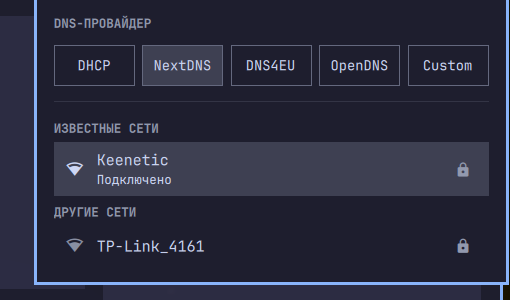
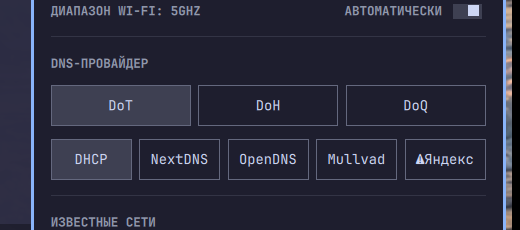
EAP выпилен (PEAP без CA — MitM, ревью #9486), обе версии

diff --git a/plugins/wifi-dns-ru/Panel.qml b/plugins/wifi-dns-ru/Panel.qml
@@ -842,25 +842,9 @@ Panel {
     runNetworkAction("connect", networkForSsid(ssid), function(network) { network.connectWithPsk(passphrase) })
   }
 
-  function connectEnterprise(ssid, identity, passphrase) {
-    runNetworkAction("connect", networkForSsid(ssid), function(network) {
-      enterpriseConnect.secret = passphrase
-      enterpriseConnect.command = ["bash", "-c", Model.enterpriseConnectScript, "nmcli-eap", ssid, identity]
-      enterpriseConnect.running = true
-    })
-  }
-
-  // Creates and activates the 802.1X profile (see Model.enterpriseConnectScript).
-  // The password goes over stdin, never argv.
-  Process {
-    id: enterpriseConnect
-    property string secret: ""
-    stdinEnabled: true
-    onStarted: {
-      write(secret + "\n")
-      secret = ""
-    }
-  }
+  // ПРИМЕЧАНИЕ: поддержка enterprise (EAP) удалена (см. submitCredentials):
+  // унаследованный путь PEAP/MSCHAPv2 пропускает проверку CA.
+  // Корпоративные сети — через системные настройки.
 
   function disconnect(network) {
     runNetworkAction("disconnect", network || connectedWifiNetwork, function(net) { net.disconnect() })
@@ -1820,7 +1804,13 @@ Panel {
     function submitCredentials() {
       if (!net || root.busy || root.passwordText.length === 0) return
       if (!isEnterprise) return root.connectWithPassphrase(net.ssid, root.passwordText)
-      if (root.identityText.length > 0) root.connectEnterprise(net.ssid, root.identityText, root.passwordText)
+      // Корпоративный EAP отключён в этом форке: унаследованный путь создаёт
+      // профиль PEAP/MSCHAPv2 без проверки CA — чуждая точка с тем же SSID
+      // может перехватить ответ (ревью маркета по #9486). Для корпоративных
+      // сетей используйте системные настройки.
+      root.failureSsid = net.ssid
+      root.failureReason = "Корпоративному Wi-Fi нужна проверка CA — здесь не поддерживается, используйте системные настройки"
+      root.passwordSsid = ""
     }
 
     Connections {

diff --git a/plugins/wifi-dns/Panel.qml b/plugins/wifi-dns/Panel.qml
@@ -850,25 +850,9 @@ Panel {
     runNetworkAction("connect", networkForSsid(ssid), function(network) { network.connectWithPsk(passphrase) })
   }
 
-  function connectEnterprise(ssid, identity, passphrase) {
-    runNetworkAction("connect", networkForSsid(ssid), function(network) {
-      enterpriseConnect.secret = passphrase
-      enterpriseConnect.command = ["bash", "-c", Model.enterpriseConnectScript, "nmcli-eap", ssid, identity]
-      enterpriseConnect.running = true
-    })
-  }
-
-  // Creates and activates the 802.1X profile (see Model.enterpriseConnectScript).
-  // The password goes over stdin, never argv.
-  Process {
-    id: enterpriseConnect
-    property string secret: ""
-    stdinEnabled: true
-    onStarted: {
-      write(secret + "\n")
-      secret = ""
-    }
-  }
+  // NOTE: enterprise (EAP) support was removed here (see submitCredentials):
+  // the inherited PEAP/MSCHAPv2 profile path skips CA validation.
+  // Use system settings for enterprise networks.
 
   function disconnect(network) {
     runNetworkAction("disconnect", network || connectedWifiNetwork, function(net) { net.disconnect() })
@@ -1829,7 +1813,13 @@ Panel {
     function submitCredentials() {
       if (!net || root.busy || root.passwordText.length === 0) return
       if (!isEnterprise) return root.connectWithPassphrase(net.ssid, root.passwordText)
-      if (root.identityText.length > 0) root.connectEnterprise(net.ssid, root.identityText, root.passwordText)
+      // Enterprise (EAP) is disabled in this fork: the inherited profile path
+      // creates PEAP/MSCHAPv2 without CA validation, letting a rogue AP with
+      // the same SSID capture the response (marketplace review on #9486).
+      // Use system settings for enterprise networks instead.
+      root.failureSsid = net.ssid
+      root.failureReason = "Enterprise Wi-Fi needs CA validation — unsupported here, use system settings"
+      root.passwordSsid = ""
     }
 
     Connections {

diff --git a/plugins/wifi-dns-ru/Model.js b/plugins/wifi-dns-ru/Model.js
@@ -317,18 +317,9 @@ function canForgetNetwork(network) {
   return !!(network && network.known && !network.connected)
 }
 
-// The password arrives on stdin and reaches nmcli through the scriptable
-// `connection edit` editor -- argv is world-readable in /proc, so the secret
-// must never be an argument (printf is a bash builtin, so no process spawns
-// with it either).
-var enterpriseConnectScript =
-  "u=$(uuidgen); IFS= read -r pw;" +
-  " nmcli connection add type wifi con-name \"$1\" ssid \"$1\" connection.uuid \"$u\"" +
-  " wifi-sec.key-mgmt wpa-eap 802-1x.eap peap 802-1x.phase2-auth mschapv2" +
-  " 802-1x.identity \"$2\" 802-1x.auth-timeout 8 >/dev/null" +
-  " && printf 'set 802-1x.password %s\\nsave\\nquit\\n' \"$pw\" | nmcli connection edit uuid \"$u\" >/dev/null" +
-  " && nmcli connection up uuid \"$u\"" +
-  " || { nmcli connection delete uuid \"$u\" >/dev/null 2>&1; false; }"
+// ПРИМЕЧАНИЕ: стоковый скрипт PEAP/MSCHAPv2-профиля удалён — он создавал
+// корпоративные подключения без проверки CA (перехват учёток чужой точкой).
+// Корпоративные сети этим форком не поддерживаются (см. submitCredentials).
 
 function networkFailureReason(reason, needsCredentials, reasons) {
   var r = reasons || {}
@@ -378,7 +369,6 @@ if (typeof module !== "undefined") {
     wifiSectionTitle: wifiSectionTitle,
     requiresCredentials: requiresCredentials,
     canForgetNetwork: canForgetNetwork,
-    enterpriseConnectScript: enterpriseConnectScript,
     networkFailureReason: networkFailureReason,
     shouldRepromptPassphrase: shouldRepromptPassphrase
   }

diff --git a/plugins/wifi-dns/Model.js b/plugins/wifi-dns/Model.js
@@ -317,18 +317,9 @@ function canForgetNetwork(network) {
   return !!(network && network.known && !network.connected)
 }
 
-// The password arrives on stdin and reaches nmcli through the scriptable
-// `connection edit` editor -- argv is world-readable in /proc, so the secret
-// must never be an argument (printf is a bash builtin, so no process spawns
-// with it either).
-var enterpriseConnectScript =
-  "u=$(uuidgen); IFS= read -r pw;" +
-  " nmcli connection add type wifi con-name \"$1\" ssid \"$1\" connection.uuid \"$u\"" +
-  " wifi-sec.key-mgmt wpa-eap 802-1x.eap peap 802-1x.phase2-auth mschapv2" +
-  " 802-1x.identity \"$2\" 802-1x.auth-timeout 8 >/dev/null" +
-  " && printf 'set 802-1x.password %s\\nsave\\nquit\\n' \"$pw\" | nmcli connection edit uuid \"$u\" >/dev/null" +
-  " && nmcli connection up uuid \"$u\"" +
-  " || { nmcli connection delete uuid \"$u\" >/dev/null 2>&1; false; }"
+// NOTE: the stock PEAP/MSCHAPv2 profile script was removed here — it created
+// enterprise connections without CA validation (rogue-AP credential capture).
+// Enterprise networks are unsupported by this fork; see submitCredentials.
 
 function networkFailureReason(reason, needsCredentials, reasons) {
   var r = reasons || {}
@@ -378,7 +369,6 @@ if (typeof module !== "undefined") {
     wifiSectionTitle: wifiSectionTitle,
     requiresCredentials: requiresCredentials,
     canForgetNetwork: canForgetNetwork,
-    enterpriseConnectScript: enterpriseConnectScript,
     networkFailureReason: networkFailureReason,
     shouldRepromptPassphrase: shouldRepromptPassphrase
   }

diff --git a/plugins/wifi-dns-ru/SECURITY.md b/plugins/wifi-dns-ru/SECURITY.md
@@ -12,6 +12,10 @@ NetworkManager — действие уровня root, и единственны
 
 ## Честные риски (что осталось и почему приемлемо)
 
+- **Нет корпоративного EAP**: унаследованный путь PEAP/MSCHAPv2 пропускает
+  проверку CA (перехват учёток чужой точкой — указано в ревью маркета).
+  Выпилен полностью; корпоративные сети получают notice про системные
+  настройки. Плагин потребительский по дизайну.
 - **Нет агента — нет переключения** (fail-closed): диалог показать некому,
   кнопка молча не срабатывает. Это безопасный отказ; живучесть агента
   проверяет хук (`polkit-agent`). Хуже было бы наоборот — тихое «получилось».

diff --git a/plugins/wifi-dns/SECURITY.md b/plugins/wifi-dns/SECURITY.md
@@ -12,6 +12,10 @@ explicit human confirmation.
 
 ## Honest risks (what remains and why it is acceptable)
 
+- **No enterprise (EAP) Wi-Fi**: the inherited PEAP/MSCHAPv2 profile path
+  skips CA validation (rogue-AP credential capture — flagged in marketplace
+  review). Removed entirely; enterprise networks show a notice pointing to
+  system settings. Consumer plugin by design.
 - **No agent — no switching** (fail-closed): nobody to show the dialog,
   the button silently does nothing. This is a safe failure; agent liveness is
   checked by a hook (`polkit-agent`). The reverse — a quiet "done" — would be worse.
